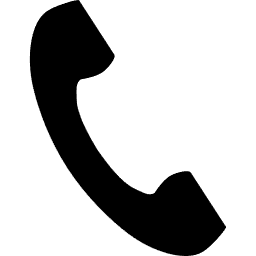
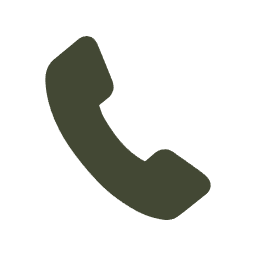
realisatis klaar

diff --git a/style-realisaties.css b/style-realisaties.css
@@ -81,6 +81,70 @@ header h1{
     text-align: center;
 }
 
+.takeaway{
+    display: flex;
+    justify-content: space-evenly;
+    align-items: center;
+    gap: 5rem;
+    margin-bottom: 14rem;
+}
+.takeaway h2{
+    font-family: "Aref Ruqaa", sans-serif;
+    font-size: 128px;
+    margin-bottom: 5rem;
+    width: 800px;
+}
+.takeaway p{
+    font-size: 30px;
+    width: 600px;
+    text-align: left;
+}
+.takeaway img {
+    width: 600px;
+    height: 550px;
+    border-radius: 40px;
+}
+
+
+.walk-bite{
+    display: flex;
+    flex-direction: column;
+    margin-bottom: 20rem;
+    justify-content: center;
+    align-items: center;
+    gap: 5rem;
+}
+.walk-bite h2{
+    font-family: "Aref Ruqaa", sans-serif;
+    font-size: 128px;
+    margin-bottom: 5rem;
+    width: 800px;
+}
+.boven, .onder{
+    display: flex;
+    flex-direction: row;
+    justify-content: center;
+    gap: 5rem;
+}
+.boven p, .onder p{
+    font-size: 30px;
+    width: 600px;
+}
+.boven{
+    margin-bottom: 5rem;
+}
+.boven p{
+    text-align: left;
+}
+.onder p{
+    text-align: right;
+}
+.boven img, .onder img{
+    width: 600px;
+    border-radius: 40px;
+}
+
+
 
 
 

diff --git a/realisaties.html b/realisaties.html
@@ -31,6 +31,33 @@
                     Tijdens mijn middelbare school heb ik een carwash georganiseerd ten voordele van het Maendeleo Centrum in Tanzania. Dit centrum is de plek waar ik verbleef tijdens mijn inleefreis naar Tanzania. Met deze actie wilde ik iets terugdoen en het centrum financieel ondersteunen.<br> De carwash vond plaats op de parking van mijn middelbare school. De organisatie en uitvoering heb ik niet alleen gedaan: mijn vriendinnen en mijn ouders hebben mij hierbij geholpen. Samen zorgden we voor het wassen van de auto’s en het klaarzetten van al het nodige materiaal.<br> Deze activiteit leerde mij hoe belangrijk samenwerking en organisatie zijn, en hoe je met een lokaal initiatief een positieve impact kunt hebben op een project in het buitenland.
                 </p>
             </section>
+
+            <section class="takeaway">
+                <img src="./img/take-away.png" alt="take away website">
+                <div class="takeaway-info">
+                    <h2>Take Away Website</h2>
+                    <p>
+                        Voor mijn examen Scripting in het eerste jaar Digitale Vormgeving heb ik een take-away website gemaakt met pizza’s en salades. Het doel van de opdracht was het schrijven van de code en het laten werken van de functies, niet de opmaak. Zo heb ik onder andere een winkelmandje, de mogelijkheid om kortingscodes toe te passen en een admin-login uitgewerkt.
+                    </p>
+                </div>
+            </section>
+
+            <section class="walk-bite">
+                <h2>Walk&Bite</h2>
+                <div class="boven">
+                    <p>
+                        Voor mijn examen UI Design in het eerste jaar Digitale Vormgeving heb ik een wandel- en restaurantapp/website ontworpen. Het maakproces begon met twee aparte groepsopdrachten, die later zijn samengevoegd tot deze individuele opdracht voor het examen. De app is bedoeld om gebruikers te stimuleren meer te bewegen: je kunt je wandelingen opnemen en wanneer je een bepaalde afstand hebt bereikt, verdien je korting bij een restaurant naar keuze. Zo combineren we gezonde beweging met een leuke beloning, en wordt wandelen aantrekkelijker en leuker gemaakt voor iedereen.
+                    </p>
+                    <img src="./img/wandelapp.png" alt="walk&bite">
+                </div>
+
+                <div class="onder">
+                    <img src="./img/wandelapp2.png" alt="walk&bite">
+                    <p>
+                        Deze wandel- en restaurantapp/website is ontwikkeld als examenproject voor UI Design in mijn eerste jaar Digitale Vormgeving. Tijdens het maakproces zijn eerst twee aparte groepsopdrachten uitgevoerd, die uiteindelijk samen zijn gebracht tot deze individuele opdracht. Het idee achter de app is om mensen meer aan het bewegen te krijgen door hun wandelingen bij te houden en hen te belonen: na het lopen van een bepaalde afstand kan een gebruiker korting krijgen bij een restaurant naar keuze. Zo wordt gezond gedrag gestimuleerd en tegelijkertijd een kleine beloning geboden, wat het concept leuk en motiverend maakt.
+                    </p>
+                </div>
+            </section>
         </main>
 
         <div class="bloem4">